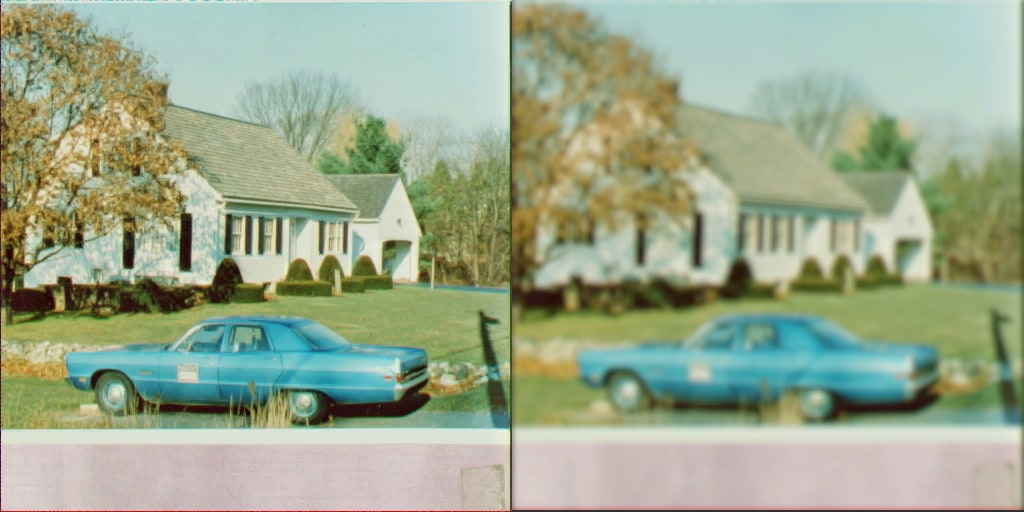
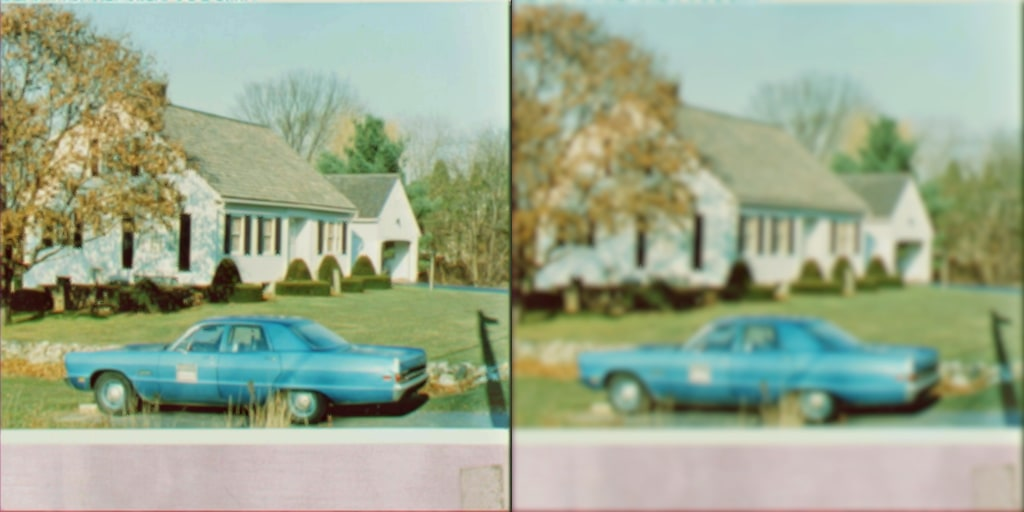
Fix offset for the center texel
There was an error where center texel was being fetched with the wrong offset
when a radius parameter is an even number.

diff --git a/README.md b/README.md
@@ -48,36 +48,25 @@ Example Code Generated
 - Radius = 6
 
 ```glsl
-u_xlat0.xz = _SourceTex_TexelSize.yy;
-u_xlat0.y = float(-5.35180569);
-u_xlat0.w = float(-3.40398479);
-u_xlat0 = u_xlat0 * vec4(-5.35180569, 0.0, -3.40398479, 0.0) + vs_TEXCOORD0.xyxy;
-u_xlat16_1 = texture(_SourceTex, u_xlat0.zw);
-u_xlat16_0 = texture(_SourceTex, u_xlat0.xy);
-u_xlat1 = u_xlat16_1 * vec4(0.139440298, 0.139440298, 0.139440298, 0.139440298);
-u_xlat0 = u_xlat16_0 * vec4(0.0527109653, 0.0527109653, 0.0527109653, 0.0527109653) + u_xlat1;
-u_xlat1.xz = _SourceTex_TexelSize.yy;
-u_xlat1.y = float(-1.45842957);
-u_xlat1.w = float(0.5);
-u_xlat1 = u_xlat1 * vec4(-1.45842957, 0.0, 0.5, 0.0) + vs_TEXCOORD0.xyxy;
-u_xlat16_2 = texture(_SourceTex, u_xlat1.xy);
-u_xlat16_1 = texture(_SourceTex, u_xlat1.zw);
-u_xlat0 = u_xlat16_2 * vec4(0.239337295, 0.239337295, 0.239337295, 0.239337295) + u_xlat0;
-u_xlat0 = u_xlat16_1 * vec4(0.137022808, 0.137022808, 0.137022808, 0.137022808) + u_xlat0;
-u_xlat1.xz = _SourceTex_TexelSize.yy;
-u_xlat1.y = float(1.45842957);
-u_xlat1.w = float(3.40398479);
-u_xlat1 = u_xlat1 * vec4(1.45842957, 0.0, 3.40398479, 0.0) + vs_TEXCOORD0.xyxy;
-u_xlat16_2 = texture(_SourceTex, u_xlat1.xy);
-u_xlat16_1 = texture(_SourceTex, u_xlat1.zw);
-u_xlat0 = u_xlat16_2 * vec4(0.239337295, 0.239337295, 0.239337295, 0.239337295) + u_xlat0;
-u_xlat0 = u_xlat16_1 * vec4(0.139440298, 0.139440298, 0.139440298, 0.139440298) + u_xlat0;
-u_xlat1.x = _SourceTex_TexelSize.y;
-u_xlat1.y = 5.35180569;
-u_xlat1.xy = u_xlat1.xy * vec2(5.35180569, 0.0) + vs_TEXCOORD0.xy;
+u_xlat0.x = 0.0;
+u_xlat0.y = _SourceTex_TexelSize.y;
+u_xlat1 = vec4(-5.35180569, -5.35180569, -3.40398479, -3.40398479) * u_xlat0.xyxy + vs_TEXCOORD0.xyxy;
+u_xlat16_2 = texture(_SourceTex, u_xlat1.zw);
 u_xlat16_1 = texture(_SourceTex, u_xlat1.xy);
-u_xlat0 = u_xlat16_1 * vec4(0.0527109653, 0.0527109653, 0.0527109653, 0.0527109653) + u_xlat0;
+u_xlat2 = u_xlat16_2 * vec4(0.139440298, 0.139440298, 0.139440298, 0.139440298);
+u_xlat1 = u_xlat16_1 * vec4(0.0527109653, 0.0527109653, 0.0527109653, 0.0527109653) + u_xlat2;
+u_xlat2 = vec4(-1.45842957, -1.45842957, 1.45842957, 1.45842957) * u_xlat0.xyxy + vs_TEXCOORD0.xyxy;
+u_xlat0 = vec4(3.40398479, 3.40398479, 5.35180569, 5.35180569) * u_xlat0.xyxy + vs_TEXCOORD0.xyxy;
+u_xlat16_3 = texture(_SourceTex, u_xlat2.xy);
+u_xlat16_2 = texture(_SourceTex, u_xlat2.zw);
+u_xlat1 = u_xlat16_3 * vec4(0.239337295, 0.239337295, 0.239337295, 0.239337295) + u_xlat1;
+u_xlat16_3 = texture(_SourceTex, vs_TEXCOORD0.xy);
+u_xlat1 = u_xlat16_3 * vec4(0.137022808, 0.137022808, 0.137022808, 0.137022808) + u_xlat1;
+u_xlat1 = u_xlat16_2 * vec4(0.239337295, 0.239337295, 0.239337295, 0.239337295) + u_xlat1;
+u_xlat16_2 = texture(_SourceTex, u_xlat0.xy);
+u_xlat16_0 = texture(_SourceTex, u_xlat0.zw);
+u_xlat1 = u_xlat16_2 * vec4(0.139440298, 0.139440298, 0.139440298, 0.139440298) + u_xlat1;
+u_xlat0 = u_xlat16_0 * vec4(0.0527109653, 0.0527109653, 0.0527109653, 0.0527109653) + u_xlat1;
 SV_Target0 = u_xlat0;
-return;
 ```
 
